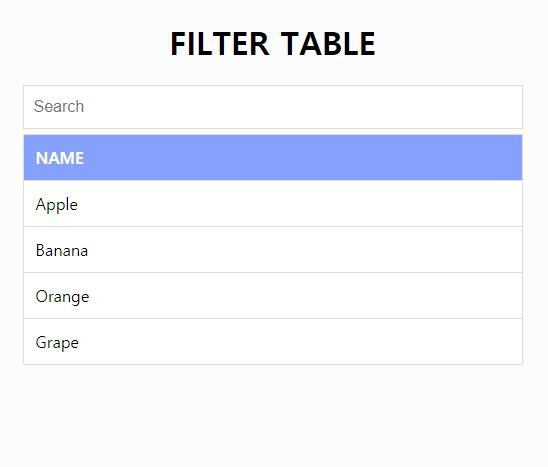
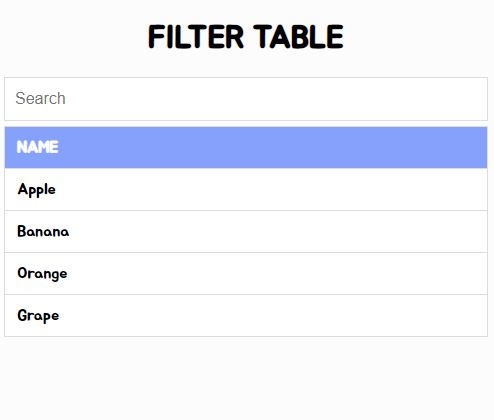
Update filter table

diff --git a/filter_table/filter_table.css b/filter_table/filter_table.css
@@ -1,9 +1,16 @@
+@font-face {
+    font-family: 'BMJUA';
+    src:url('../fonts/BMJUA_ttf.ttf');
+    src:url('../fonts/BMJUA_otf.otf');
+}
+
 body {
+    font-family: 'BMJUA';
     background-color: #fcfcfc;
 }
 
 .container {
-    width: 500px;
+    width: 640px;
     margin: 0 auto;
 }
 
@@ -48,4 +55,10 @@ body {
 
 #my-table tr:hover {
     background-color: #f5f5f5;
+}
+
+@media screen and (max-width: 640px) {
+    .container {
+        width: 100%;
+    }
 }
